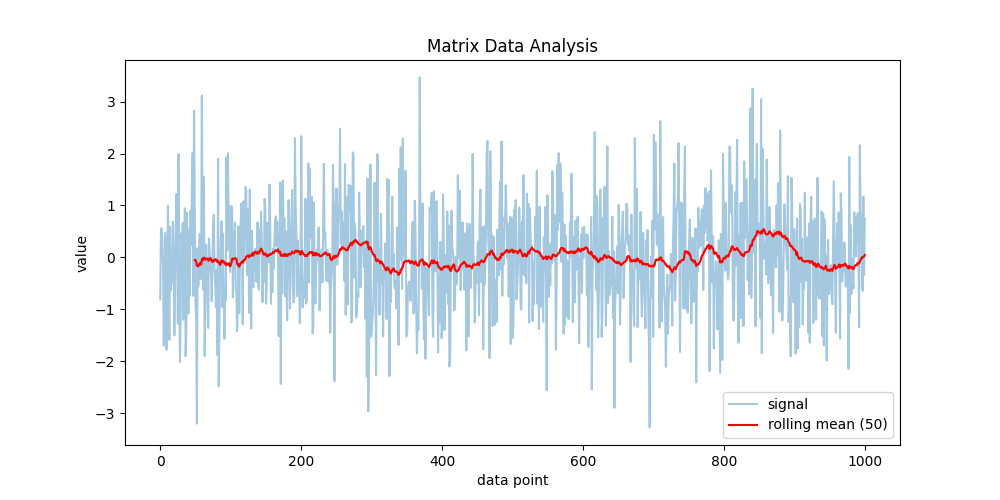
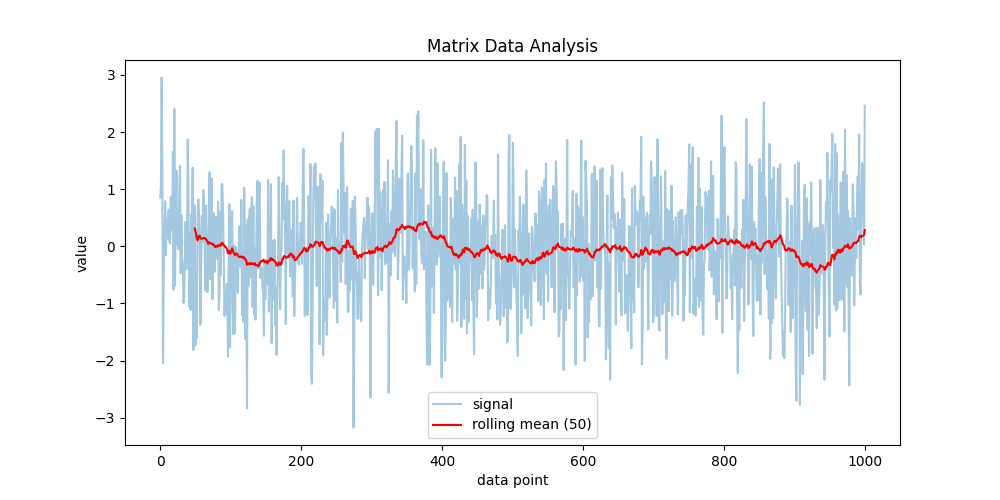
complete ex2

diff --git a/ex2/oracle.py b/ex2/oracle.py
@@ -35,3 +35,76 @@ Authorized: os, sys, python-dotenv modules, file operations.
 # [OK] Production overrides available
 #
 # The Oracle sees all configurations.
+
+import os
+from dotenv import load_dotenv
+
+def check_mode(config: dict) -> None:
+    if config['matrix_mode']:
+        print(f"Mode: {config['matrix_mode']}")
+    else:
+        print("Environment variable, MATRIX_MODE is missing.")
+
+def check_database(config: dict) -> None:
+    if config['database_url']:
+        print(f"Database: {config['database_url']}")
+    else:
+        print("Environment variable, DATABASE_URL is missing.")
+
+def check_api_access(config: dict) -> None:
+    if config['api_key']:
+        print("API Access: Authenticated")
+    else:
+        print("Environment variable, API_KEY is missing.")
+
+def check_log_level(config: dict) -> None:
+    if config['log_level']:
+        print(f"Log Level: {config['log_level']}")
+    else:
+        print("Environment variable, LOG_LEVEL is missing.")
+
+def check_zion(config: dict) -> None:
+    if config['zion_endpoint']:
+        print(f"Zion Network: {config['zion_endpoint']}")
+    else:
+        print("Environment variable, ZION_ENDPOINT is missing.")
+
+def load_config() -> dict:
+    print("Configuration loaded:")
+    return {
+        "matrix_mode": os.getenv("MATRIX_MODE"),
+        "database_url": os.getenv("DATABASE_URL"),
+        "api_key": os.getenv("API_KEY"),
+        "log_level": os.getenv("LOG_LEVEL"),
+        "zion_endpoint": os.getenv("ZION_ENDPOINT")
+    }
+
+def check_all(config: dict) -> None:
+    if all(v is not None for _, v in config.items()):
+        print("The Oracle sees all configrations.")
+    else:
+        print("Some configs are missing.")
+
+def print_sec_check() -> None:
+    print("Environment security check:")
+    print("[OK] No hardcoded secrets detected")
+    print("[OK] .env file properly configured")
+    print("[OK] Production overrides available")
+
+def main() -> None:
+    print("ORACLE STATUS: Reading the Matrix...")
+    print()
+    load_dotenv()
+    config = load_config()
+    check_mode(config)
+    check_database(config)
+    check_api_access(config)
+    check_log_level(config)
+    check_zion(config)
+    print()
+    print_sec_check()
+    print()
+    check_all(config)
+
+if __name__ == "__main__":
+    main()